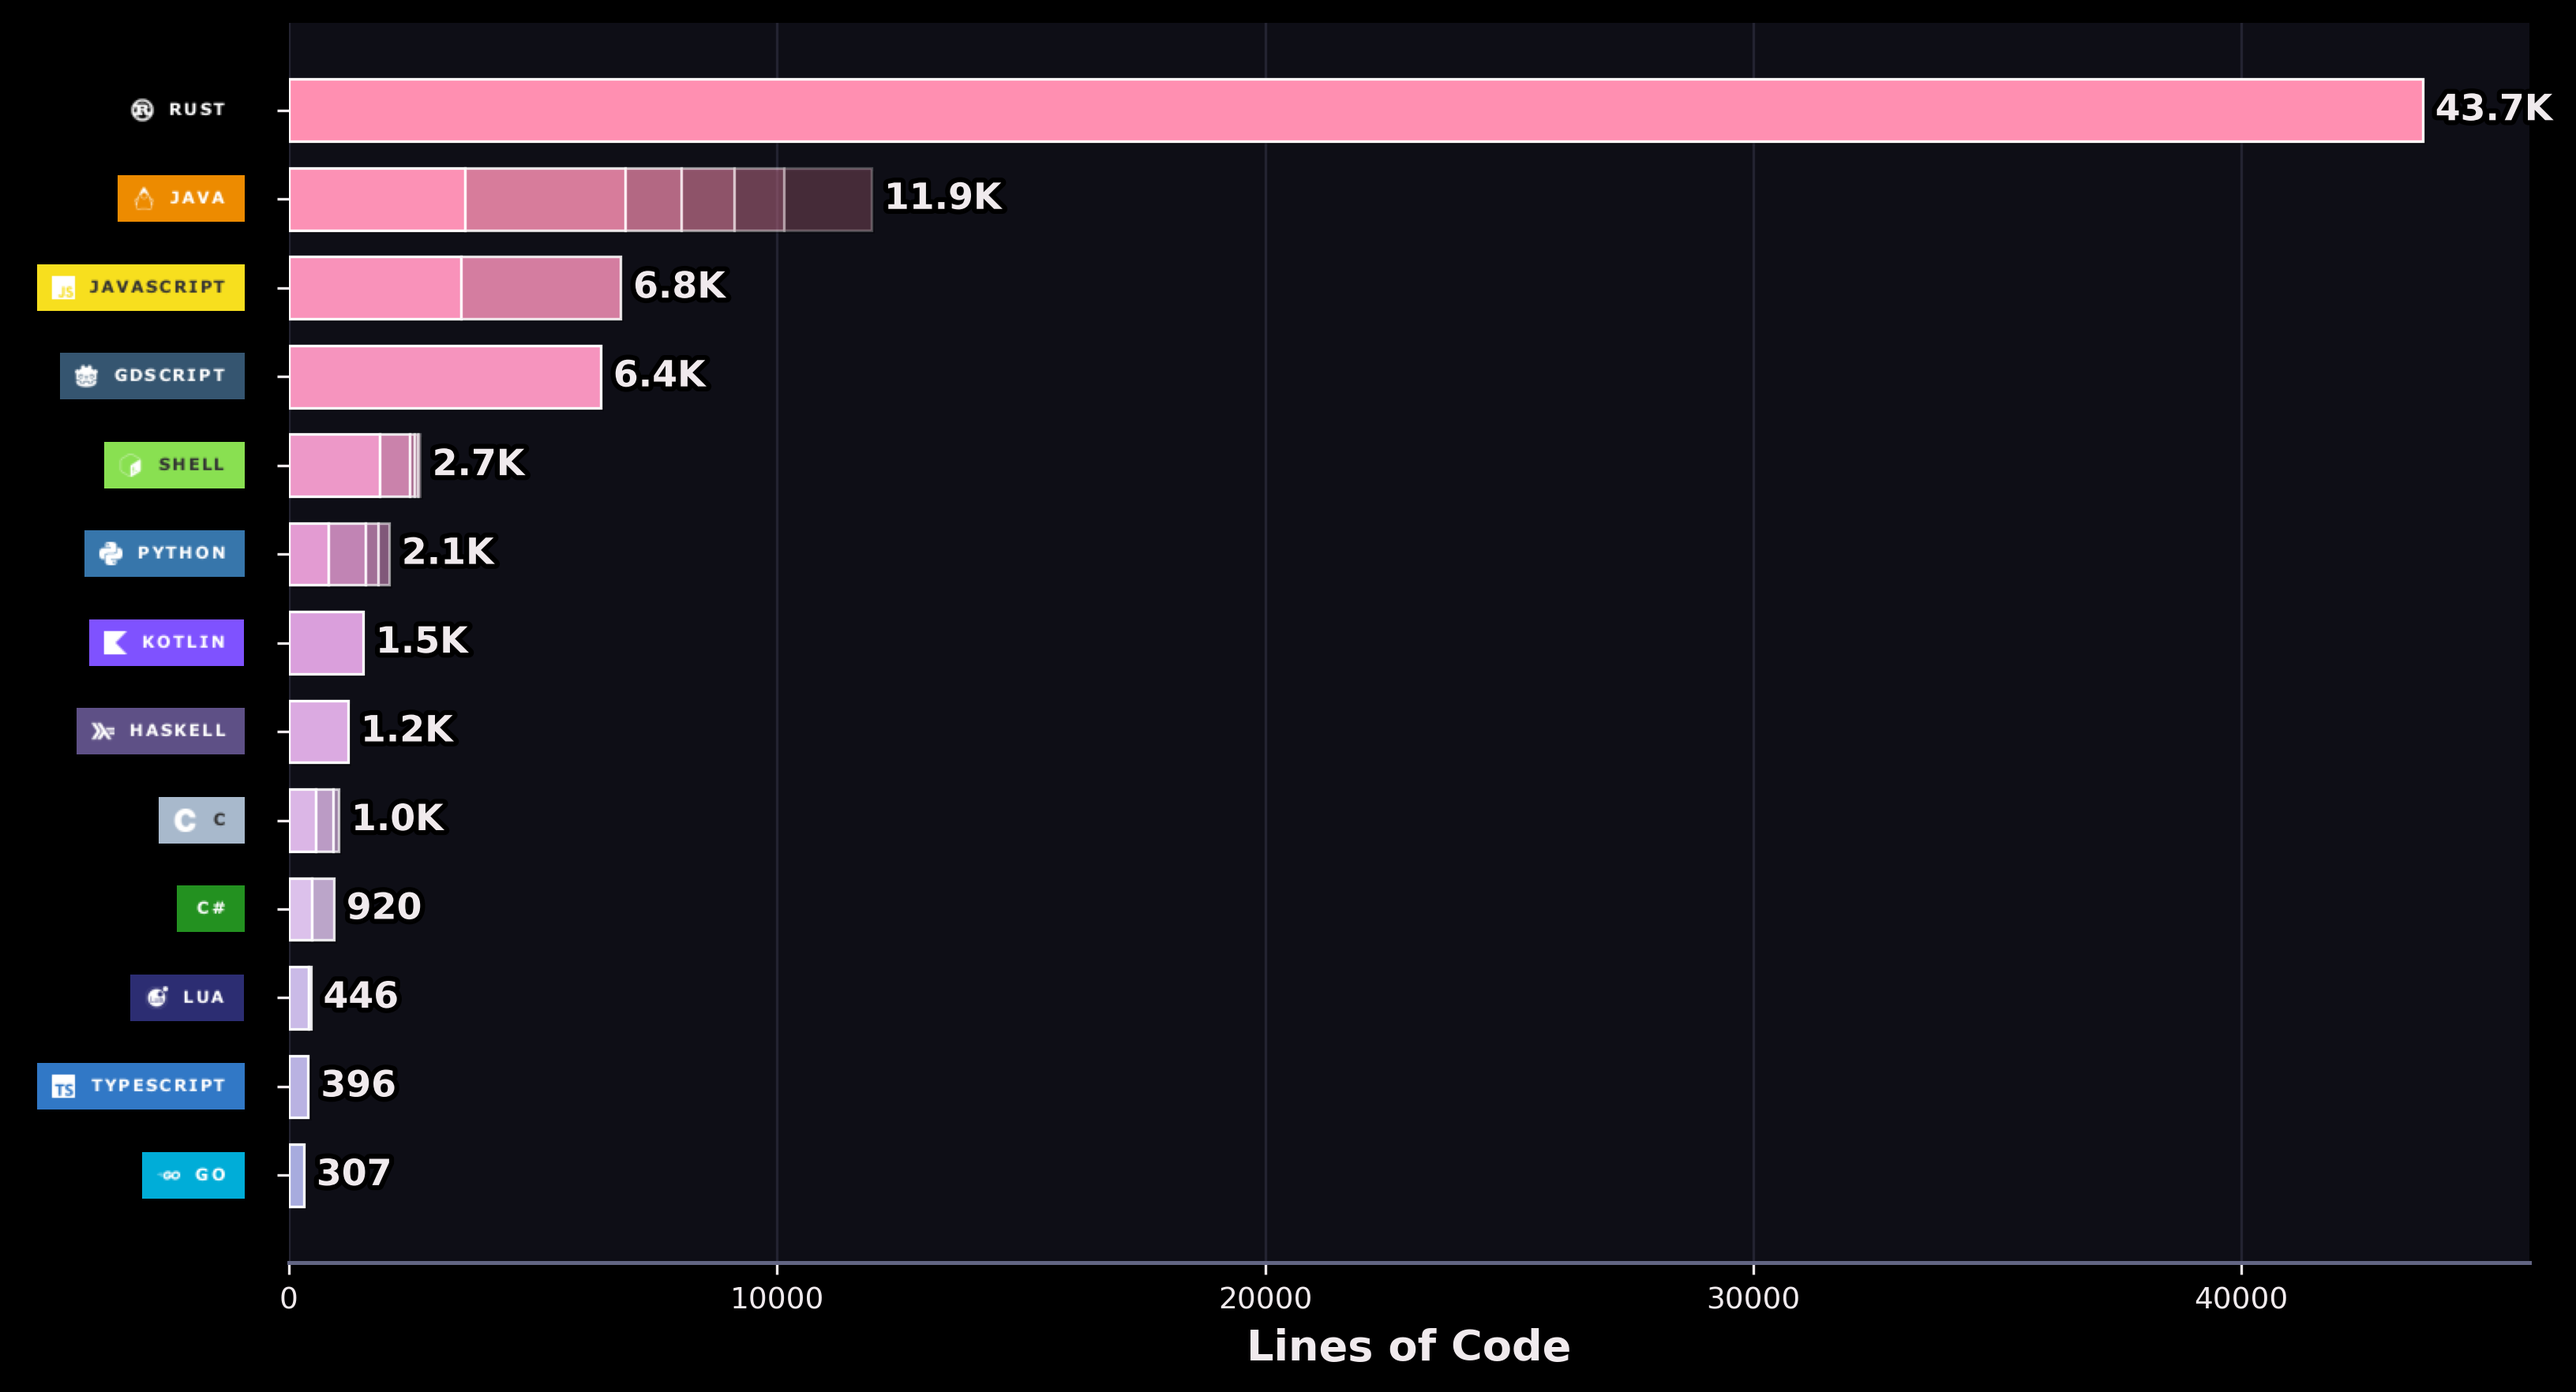
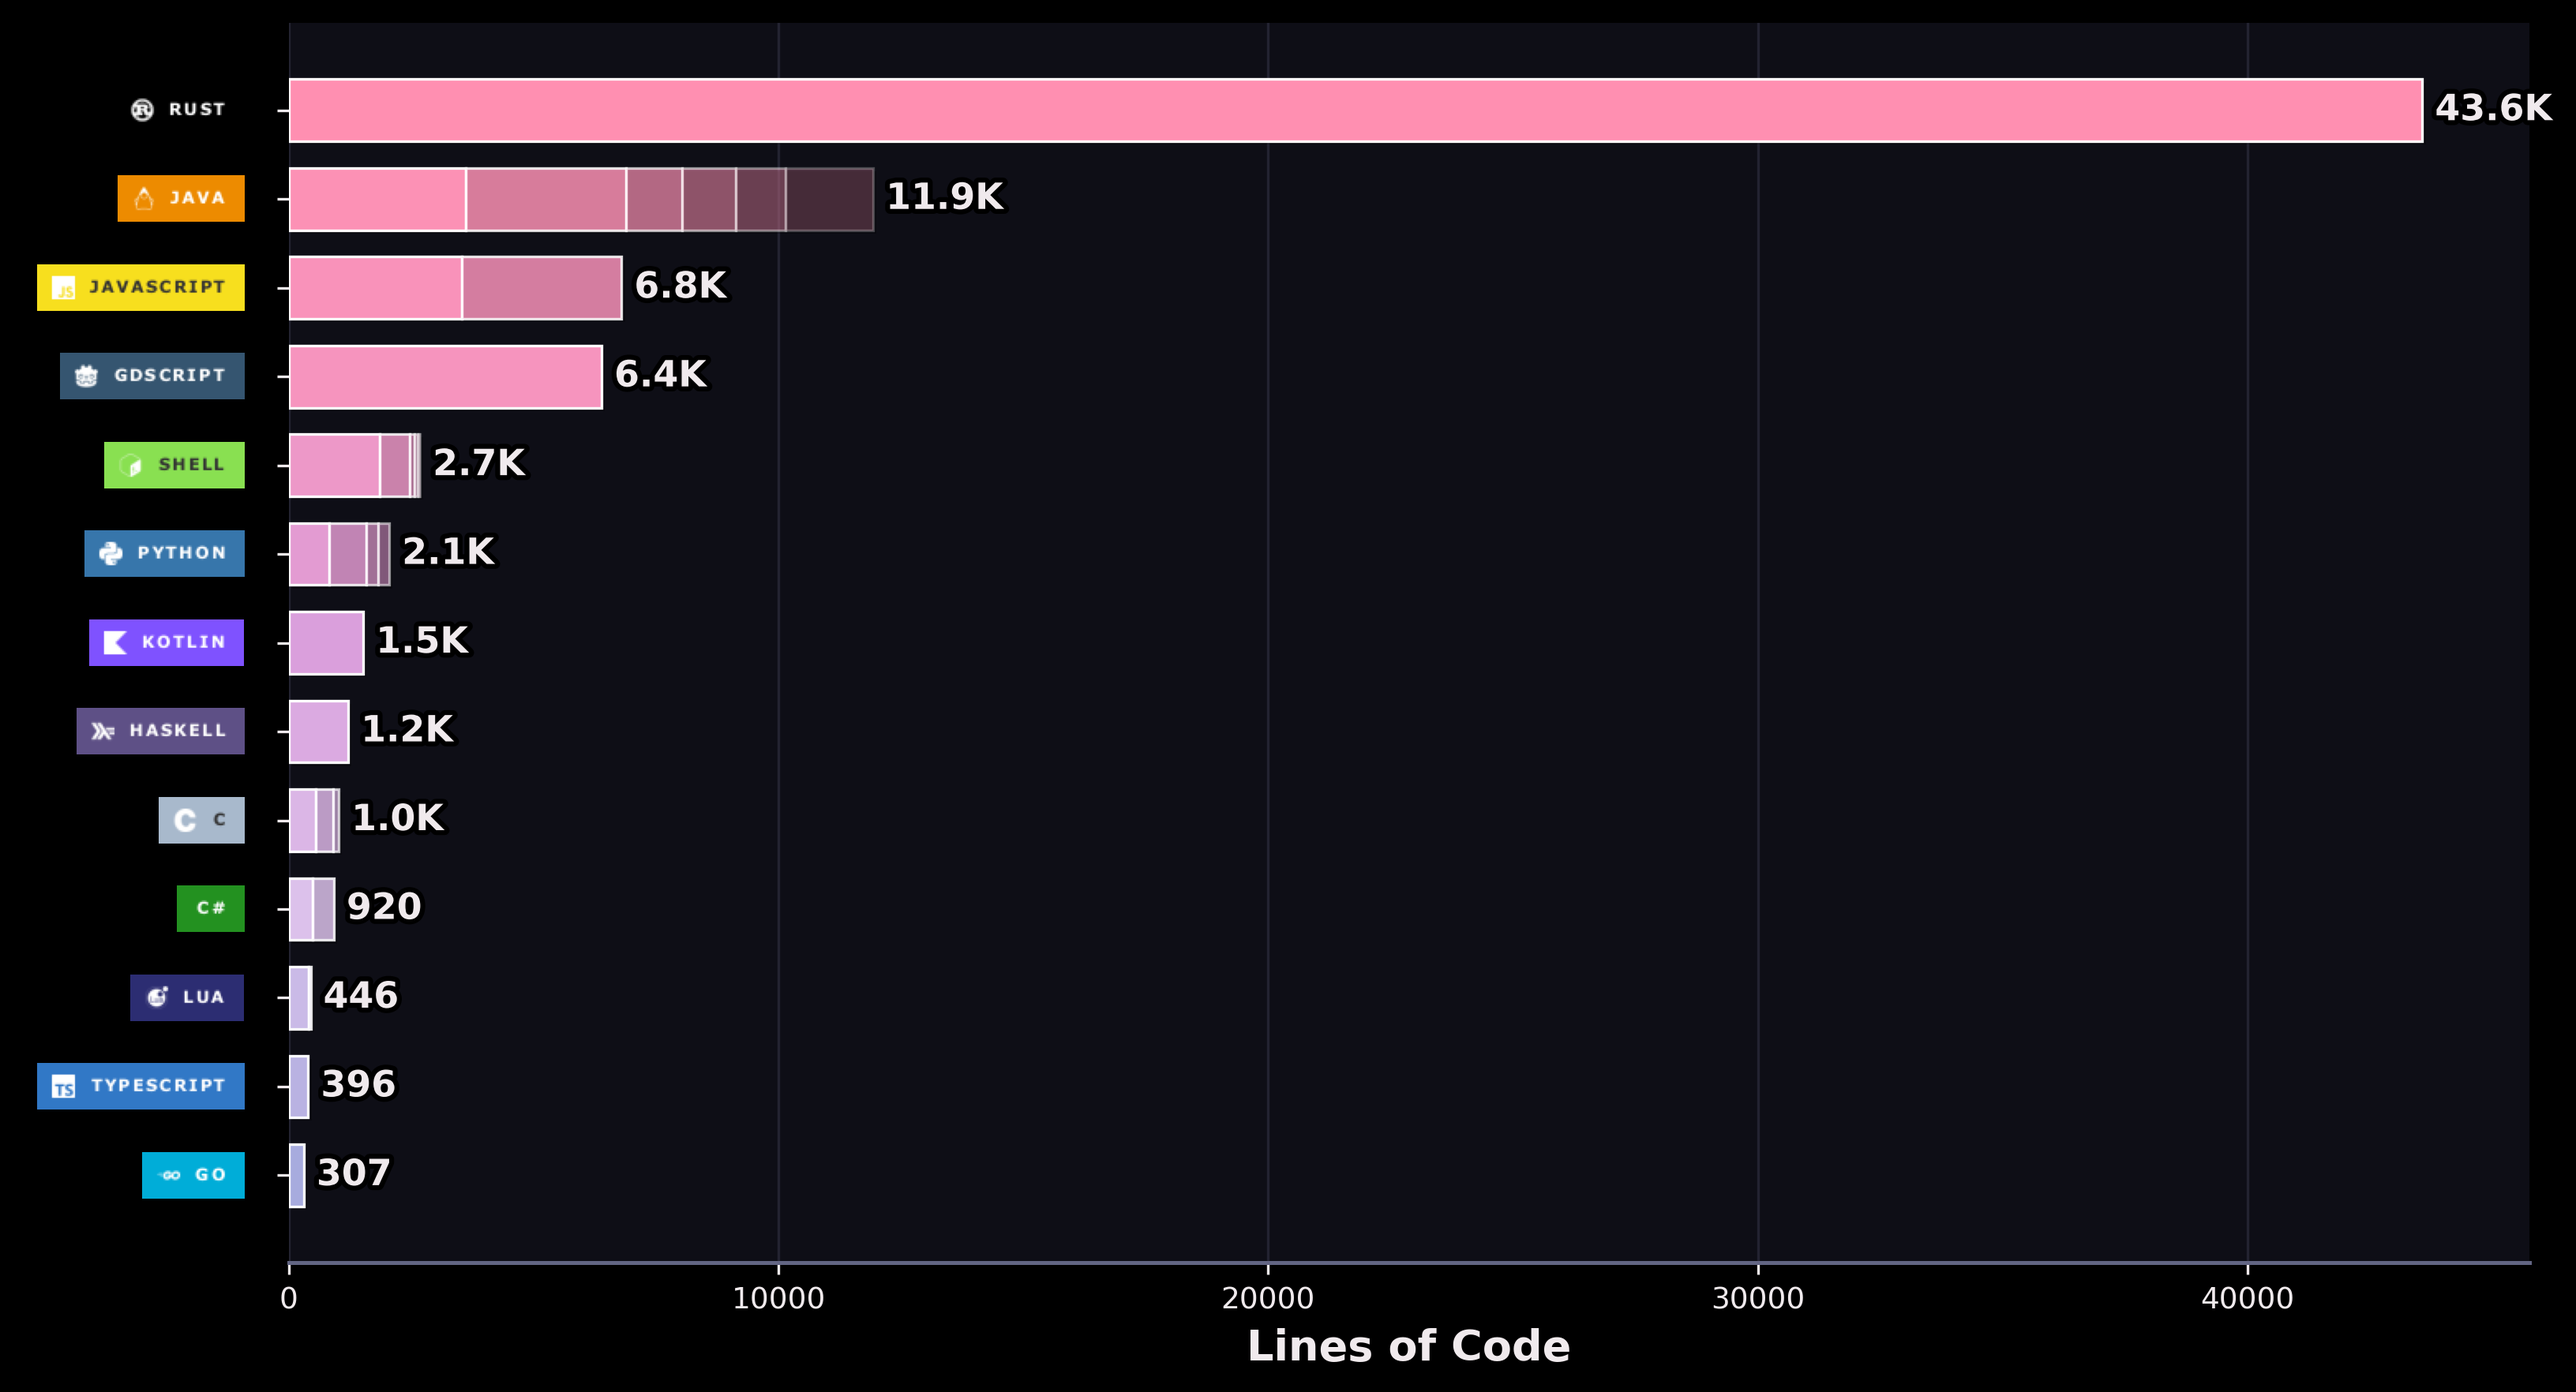
Update language statistics

diff --git a/README.md b/README.md
@@ -18,10 +18,10 @@
 
 |    | Language | Lines of code | Share |
 |:--:|:---------|----------:|:------|
-| 🥇 | Rust | 43.7K | 🌸🌸🌸🌸🌸🌸🌸🌸🌸🌸 55.1% |
-| 🥈 | Java | 11.9K | 🌸🌸🌸⬜⬜⬜⬜⬜⬜⬜ 15.0% |
+| 🥇 | Rust | 43.6K | 🌸🌸🌸🌸🌸🌸🌸🌸🌸🌸 55.0% |
+| 🥈 | Java | 11.9K | 🌸🌸🌸⬜⬜⬜⬜⬜⬜⬜ 15.1% |
 | 🥉 | JavaScript | 6.8K | 🌸🌸⬜⬜⬜⬜⬜⬜⬜⬜ 8.6% |
-| 🌸 | GDScript | 6.4K | 🌸⬜⬜⬜⬜⬜⬜⬜⬜⬜ 8.0% |
+| 🌸 | GDScript | 6.4K | 🌸⬜⬜⬜⬜⬜⬜⬜⬜⬜ 8.1% |
 | 🌸 | Shell | 2.7K | 🌸⬜⬜⬜⬜⬜⬜⬜⬜⬜ 3.4% |
 | 🌸 | Python | 2.1K | 🌸⬜⬜⬜⬜⬜⬜⬜⬜⬜ 2.6% |
 | 🌸 | Kotlin | 1.5K | 🌸⬜⬜⬜⬜⬜⬜⬜⬜⬜ 1.9% |
